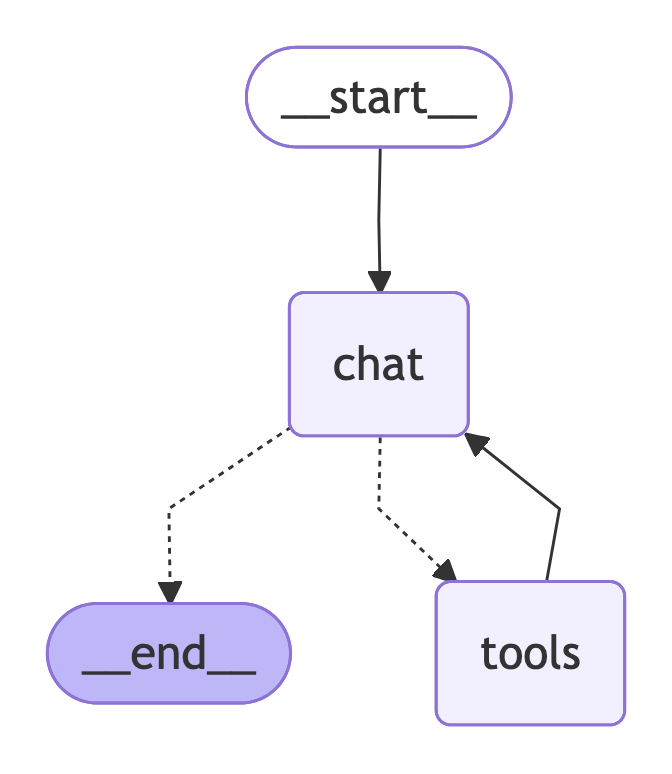
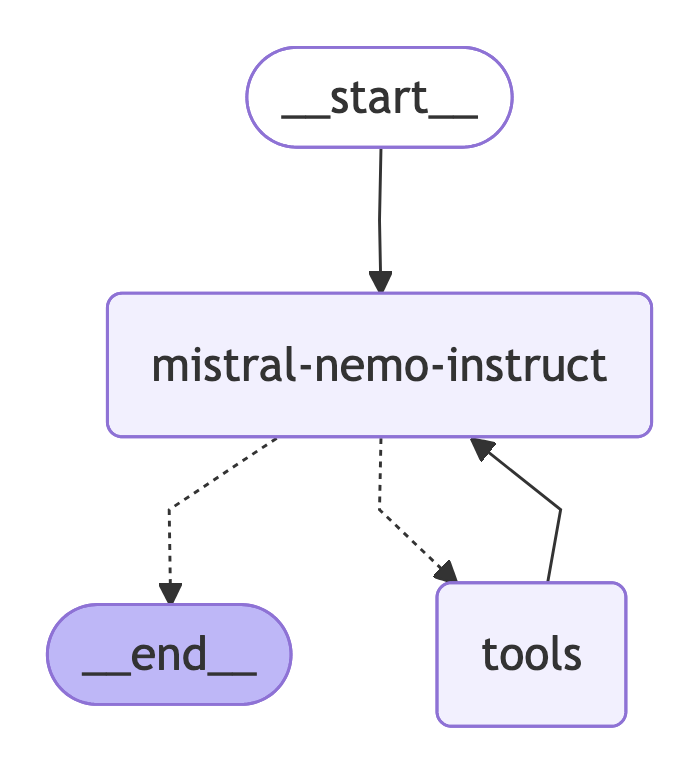
refactor: renomeia arquivos principais e ajusta referências\n\n- Renomeia arquivos main_1_basis.py, main_2_tools.py e main_3_agent.py\n- Atualiza launch.json para refletir novos nomes\n- Corrige docstring e nome de função em main_2_tools.py\n- Refatora main_3_agent.py para async, ajusta nomes e flux

diff --git a/src/main_3_agent.py b/src/main_3_agent.py
@@ -1,5 +1,6 @@
 """Simple Hello World entry point module."""
 
+
 import asyncio
 import sys
 from datetime import datetime
@@ -15,10 +16,8 @@ from langgraph.prebuilt import ToolNode, tools_condition
 
 from src.helpers import get_chat_kargs, render_graph
 
-# from prettyprinter import pprint
 
-
-def agora() -> datetime:
+async def tool_agora() -> datetime:
     """Abtém o dia e hora atuais."""
     return datetime.now()
 
@@ -27,11 +26,10 @@ async def main() -> None:
     """Entry point of the program. Obtains an OAuth token and runs a sample chat."""
 
     # tools = []
-    tools = [agora]
+    tools = [tool_agora]
 
     chat_kwargs = await get_chat_kargs()
-    chat = ChatOpenAI(**chat_kwargs)
-    chat_with_tools = chat.bind_tools(tools)
+    chat = ChatOpenAI(**chat_kwargs).bind_tools(tools)
 
     # def assistant(state: MessagesState):
     #     return {"messages": [chat.invoke(state["messages"])]}
@@ -43,32 +41,33 @@ async def main() -> None:
     #     )
     # )
 
-    async def call_model(state: MessagesState) -> MessagesState:
-        response = cast(AnyMessage, await chat_with_tools.ainvoke(state["messages"]))
-        return {"messages": [response]}
+    async def invoke_chat(state: MessagesState) -> MessagesState:
+        response = cast(AnyMessage, await chat.ainvoke(state["messages"]))
+        return MessagesState(messages=[response])
+
+    node_chat_name = getattr(chat, "model_name", "chat")
+    node_tool_name = "tools"
 
     graph = StateGraph(MessagesState)
-    graph.add_node("chat", call_model)
-    graph.add_node("tools", ToolNode(tools))
-    graph.add_edge(START, "chat")
+    graph.add_node(node_chat_name, invoke_chat)
+    graph.add_node(node_tool_name, ToolNode(tools))
+    graph.add_edge(START, node_chat_name)
     graph.add_conditional_edges(
-        "chat",
+        node_chat_name,
         tools_condition,
     )
-    graph.add_edge("tools", "chat")
+    graph.add_edge(node_tool_name, node_chat_name)
 
     memory = MemorySaver()
     react_graph = graph.compile(checkpointer=memory)
     compiled_graph = react_graph.get_graph(xray=True)
     await render_graph(compiled_graph)
 
-    messages: list[AnyMessage] = [
-        # prompt,
-        HumanMessage(content="que horas são e que dia é hoje?"),
-    ]
-
-    state = MessagesState(messages=messages)
+    message = HumanMessage(
+        content="Que dia é hoje e quando será o próximo domingo?")
+    state = MessagesState(messages=[message])
     config = RunnableConfig(configurable={"thread_id": "1"})
+
     result = await react_graph.ainvoke(state, config=config)
 
     for m in result["messages"]:

diff --git a/src/main_2_tools.py b/src/main_2_tools.py
@@ -1,5 +1,6 @@
 """Simple Hello World entry point module."""
 
+
 import asyncio
 import sys
 from datetime import datetime
@@ -13,7 +14,7 @@ from src.helpers import get_chat_kargs
 
 
 def agora() -> datetime:
-    """Abtém o dia e hora atuais."""
+    """Obtém o dia e hora atuais."""
     return datetime.now()
 
 

diff --git a/src/main_1_basis.py b/src/main_1_basis.py
@@ -1,5 +1,6 @@
 """Simple Hello World entry point module."""
 
+
 import asyncio
 import sys
 from pathlib import Path
